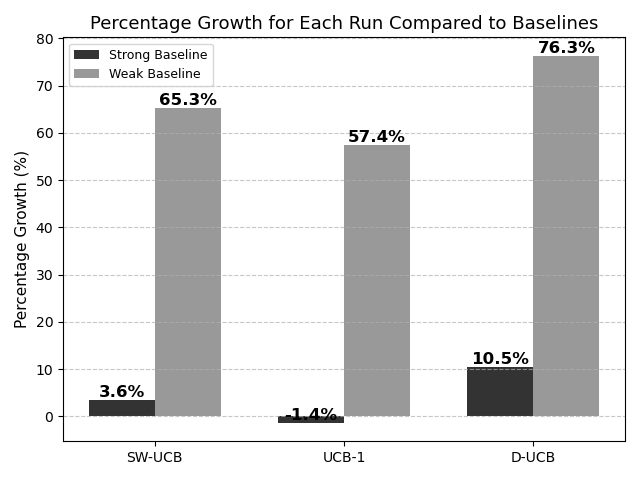
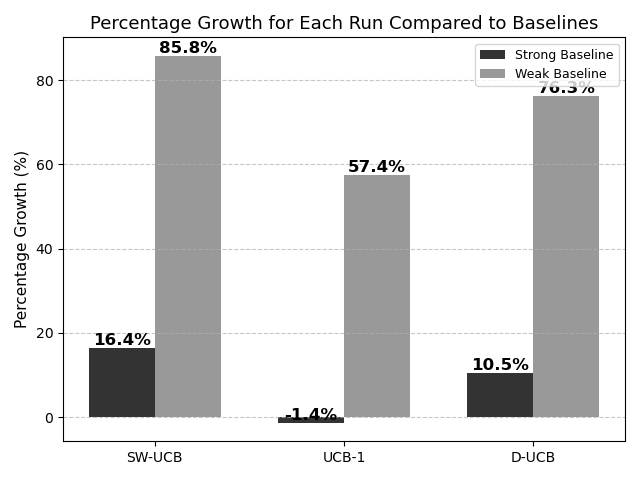
yes

diff --git a/RNNsimple.py b/RNNsimple.py
@@ -5,6 +5,8 @@ from agents import baselineAgent, LSTM_Agent, DiscountedUCBAgent, SlidingWindowU
 import torch
 from torch import nn
 from torch.optim import Adam
+import gc
+
 
 baseline_agent = None
 agent = None
@@ -13,7 +15,7 @@ agent = None
 batch_size = 64
 l_rate = 0.001
 hidden_size = 32
-time_steps = 4*60
+time_steps = 2*60
 epochs = 1000
 patience = 5  
 
@@ -91,8 +93,6 @@ def create_training_traces(env, mode, inp):
                 break
 
         return states
-
-
     elif inp == 3:
         states = []
         agent = SlidingWindowUCBAgent(window_size=9*60)
@@ -147,6 +147,9 @@ if __name__ == '__main__':
     trainY = torch.tensor(trainY, dtype=torch.float32)
     testX = torch.tensor(testX, dtype=torch.float32)
     testY = torch.tensor(testY, dtype=torch.float32)
+
+    del train_data, test_data
+    gc.collect()
 
     # Training loop
     print('Training LSTM Agent')
@@ -242,6 +245,13 @@ Baseline Agent
 epochs: 1000 lr: 0.001 batch_size: 64 
 hidden_size: 32 time_steps: 120 loss function: 1
 
+====== RESULT ======
+Baseline Agent
+[total reward]: 0.51
+[Hyperparameters]
+epochs: 1000 lr: 0.001 batch_size: 128 
+hidden_size: 32 time_steps: 120 loss function: 1
+
 
 ====== RESULT ======
 Baseline Agent
@@ -257,4 +267,30 @@ Baseline Agent
 [Hyperparameters]
 epochs: 1000 lr: 0.001 batch_size: 64 
 hidden_size: 32 time_steps: 240 loss function: 1
+
+====== RESULT ======
+Baseline Agent
+[total reward]: 0.496
+[Hyperparameters]
+epochs: 1000 lr: 0.001 batch_size: 64 
+hidden_size: 32 time_steps: 300 loss function: 1
+
+
+"""
+
+
+"""
+====== RESULT ======
+D-UCB Agent
+[total reward]: 0.504
+[Hyperparameters]
+epochs: 1000 lr: 0.001 batch_size: 64 
+hidden_size: 32 time_steps: 120 loss function: 1
+
+====== RESULT ======
+SW-UCB Agent
+[total reward]: 0.493
+[Hyperparameters]
+epochs: 1000 lr: 0.001 batch_size: 32 
+hidden_size: 32 time_steps: 120 loss function: 1
 """

diff --git a/plots/reward.py b/plots/reward.py
@@ -2,17 +2,20 @@ import matplotlib.pyplot as plt
 
 # Algorithm names and corresponding total rewards
 algorithms = ['Simple Baseline', 'Strong Baseline', 'UCB-1', 'SW-UCB', 'D-UCB']
-rewards = [0.317, 0.506, 0.499, 0.553, 0.559]
+rewards = [0.317, 0.506, 0.499, 0.589, 0.559]
 
 # Create a bar plot
 fig, ax = plt.subplots()
 ax.bar(algorithms, rewards)
 
 # Add labels and title
-ax.set_xlabel('Algorithms')
+ax.set_xlabel('Algorithms', labelpad=-20)
 ax.set_ylabel('Total Reward')
 ax.set_title('Total Reward by Algorithm')
 
-# Display the plot
-plt.savefig('reward.png')
+# Rotate x-axis labels
+plt.xticks(rotation=30)
+
+# Display the plot and save with adjusted bounding box
+plt.savefig('reward.png', bbox_inches='tight')
 plt.show()

diff --git a/plots/plot.py b/plots/plot.py
@@ -9,7 +9,7 @@ def add_text_label(ax, x, y, value, color='black', fontweight='bold', fontsize=1
 baseline_strong = 0.506
 baseline_weak = 0.317
 runs = ['SW-UCB', 'UCB-1', 'D-UCB']
-test_rewards = [0.524, 0.499, 0.559]
+test_rewards = [0.589, 0.499, 0.559]
 
 # Calculate percentage growths
 growth_strong = [(reward - baseline_strong) / baseline_strong * 100 for reward in test_rewards]
@@ -46,5 +46,5 @@ for i, (strong_growth, weak_growth) in enumerate(zip(growth_strong, growth_weak)
     add_text_label(ax, i + bar_width / 2, weak_growth, weak_growth)
 
 plt.tight_layout()
-plt.savefig('plots/UCBtest.png')
+plt.savefig('UCBtest.png')
 plt.show()

diff --git a/UCBtest.py b/UCBtest.py
@@ -467,7 +467,7 @@ Baseline:
 Strong: 0.506 Weak: 0.317
 
 
-Run 1 SW-UCB best window size = 1 * 60:
+Run 1 SW-UCB best window size = 9 * 60:
 ====== TESTING window size ======
 [total reward]: 0.562
 Best window size: 9
